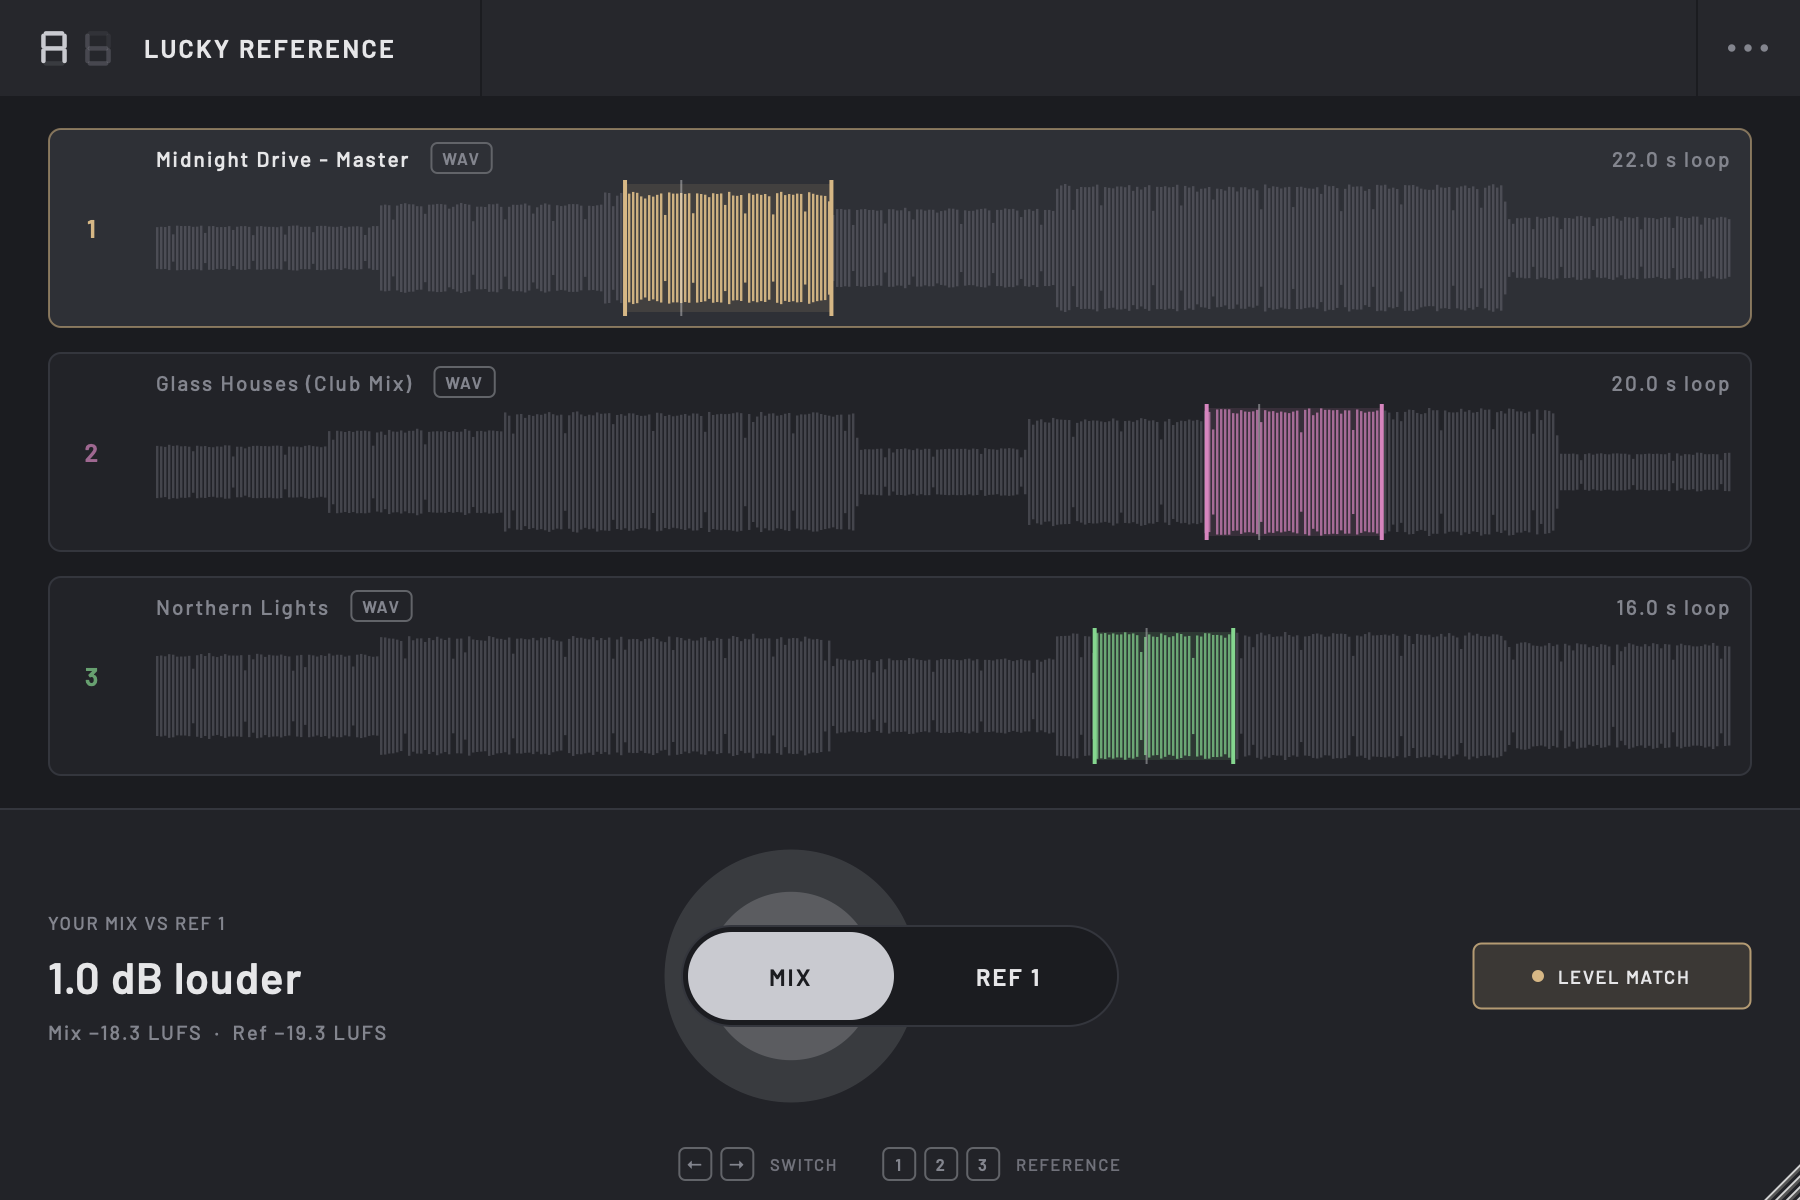
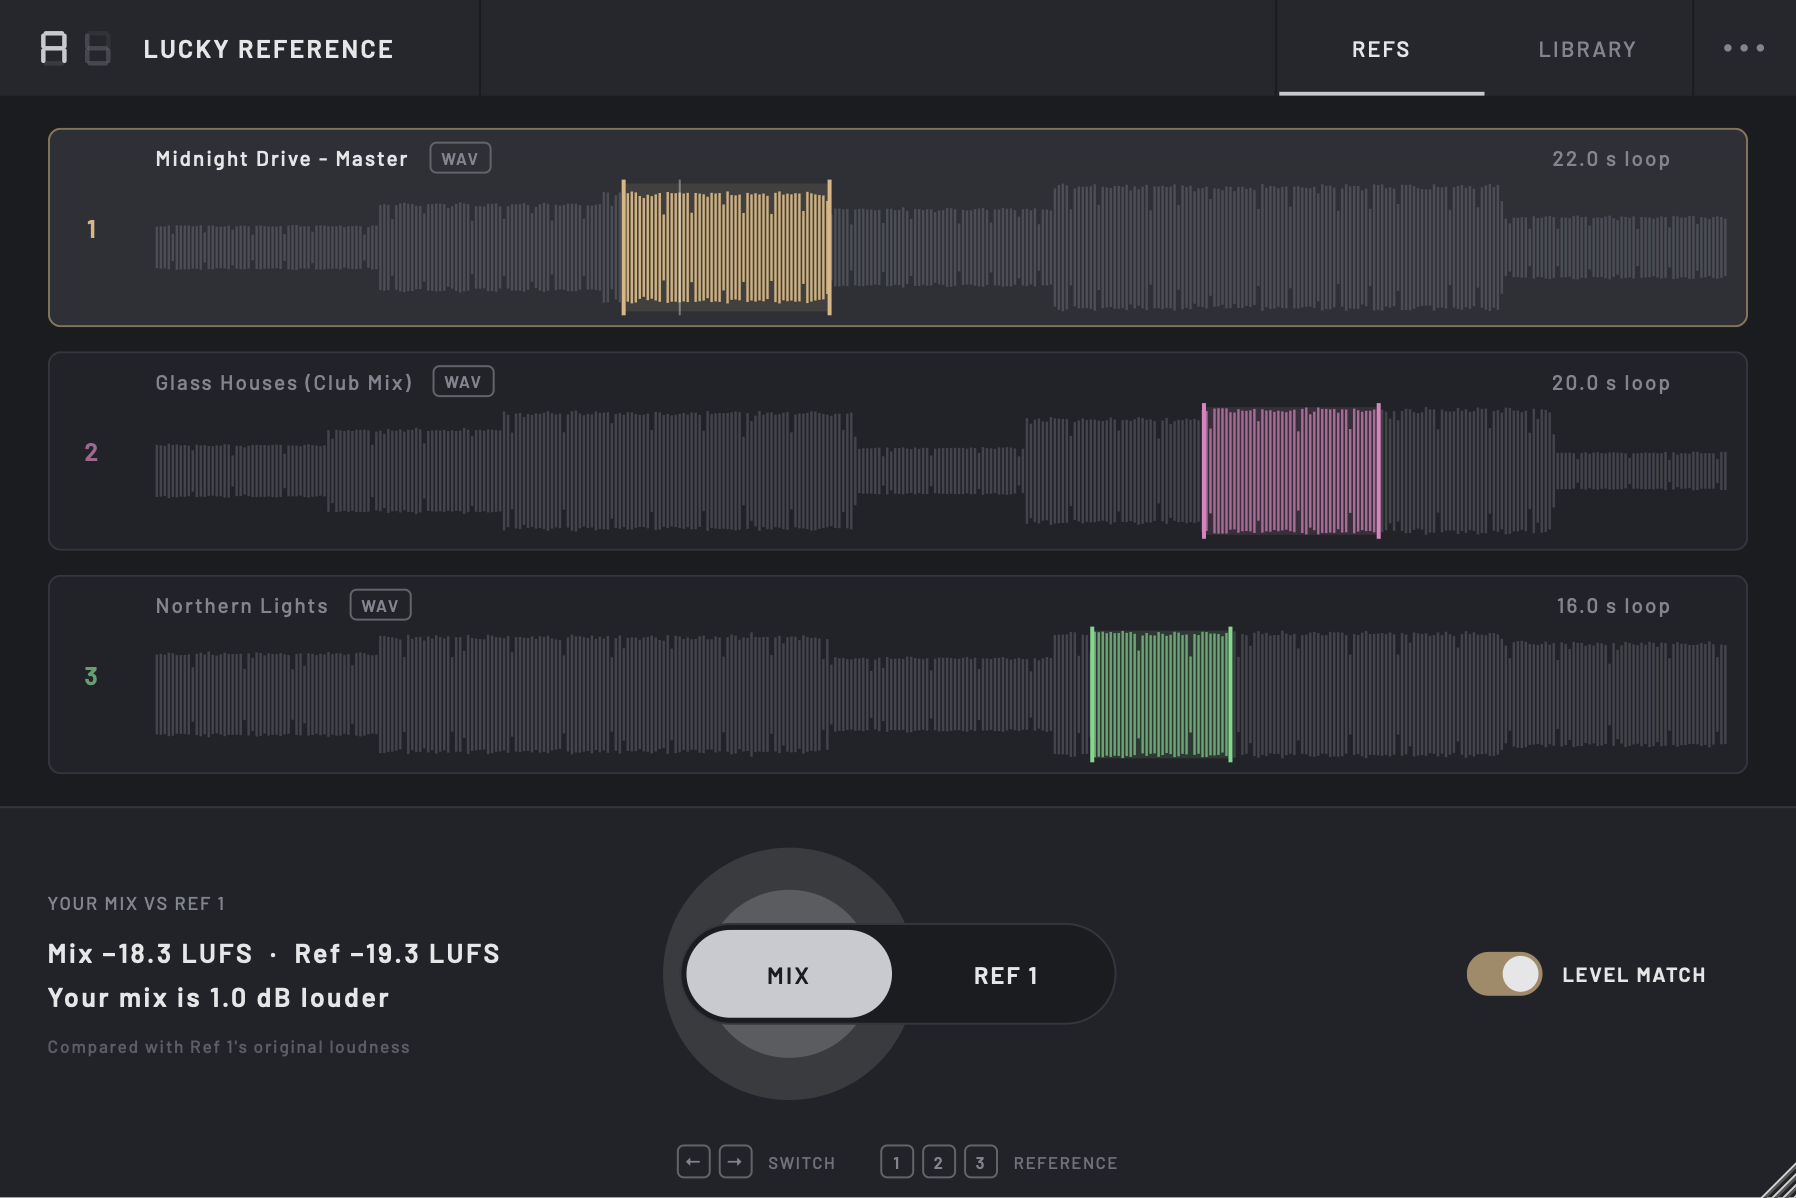
docs: prepare v0.2.0 with the reference library
Add a library section and new screenshots to the site, cover the
library, closest matching and the new readout in the README, and
write the v0.2.0 changelog.

diff --git a/docs/index.html b/docs/index.html
@@ -4,7 +4,7 @@
 <meta charset="utf-8">
 <meta name="viewport" content="width=device-width, initial-scale=1">
 <title>Lucky Reference</title>
-<meta name="description" content="Lucky Reference: a free reference plugin for macOS. Flip between your mix and up to three reference tracks with one switch, at matched loudness, without leaving your master track.">
+<meta name="description" content="Lucky Reference: a free reference plugin for macOS. Flip between your mix and up to three reference tracks with one switch, at matched loudness, and find the references in your library that sound closest to your mix.">
 <meta property="og:title" content="Lucky Reference">
 <meta property="og:description" content="A/B your mix against the records you love, at the same loudness. Free for macOS, VST3.">
 <meta property="og:image" content="https://tomdmaguire.github.io/lucky-reference/assets/reference.png">
@@ -110,6 +110,11 @@
   .manual summary { cursor: pointer; color: var(--text); font-family: var(--display); font-weight: 600; letter-spacing: 0.03em; font-size: 17px; }
   .manual[open] summary { margin-bottom: 8px; }
   .manual p { margin: 8px 0; }
+  .points { margin: 18px 0; padding-left: 20px; color: var(--dim); }
+  .points li { margin: 0 0 10px; }
+  .points strong, .library-copy p strong { color: var(--text); font-weight: 600; }
+  .library-copy p { color: var(--dim); margin: 0; }
+  .library-copy .aside { font-size: 15px; }
   .split { display: grid; grid-template-columns: minmax(0, 1fr) minmax(0, 1.2fr); gap: 40px; align-items: center; }
   .notes { display: grid; grid-template-columns: repeat(2, minmax(0, 1fr)); gap: 24px 40px; color: var(--dim); }
   .notes h3 { font-family: var(--display); font-weight: 600; font-size: 19px; letter-spacing: 0.03em; color: var(--text); margin: 0 0 4px; }
@@ -137,6 +142,7 @@
     <a class="brand" href="#top"><img src="assets/logo.svg" alt=""><span>LUCKY REFERENCE</span></a>
     <nav aria-label="Sections">
       <a class="optional" href="#features">Features</a>
+      <a class="optional" href="#library">Library</a>
       <a class="optional" href="#how">How to use</a>
       <a href="#install">Install</a>
       <a href="https://github.com/tomdmaguire/lucky-reference">GitHub</a>
@@ -175,8 +181,8 @@
     </div>
 
     <figure class="shot">
-      <img src="assets/reference.png" width="1800" height="1200" alt="Lucky Reference with three reference tracks loaded, each with a looped section highlighted in its colour. Reference 2 is playing, with rings rippling out from the switch, and the readout says your mix is 4.0 dB quieter: mix −18.3 LUFS, reference −14.3 LUFS.">
-      <figcaption>Three references, each looping the section you want to compare. Reference 2 is playing at your mix's loudness, and the readout shows your mix is 4 dB quieter.</figcaption>
+      <img src="assets/reference.png" width="1800" height="1200" alt="Lucky Reference with three reference tracks loaded, each with a looped section highlighted in its colour. Reference 2 is playing with level match on, rings rippling out from the switch, and the readout shows mix −18.3 LUFS, reference −14.3 LUFS: your mix is 4.0 dB quieter.">
+      <figcaption>Three references, each looping the section you want to compare. Reference 2 is playing at your mix's loudness, and the readout shows your mix is really 4 dB quieter.</figcaption>
     </figure>
   </div>
 
@@ -187,7 +193,7 @@
       <div class="features">
         <div class="feature" style="--dot: var(--gold)">
           <h3>A fair comparison</h3>
-          <p>Louder always sounds better, so the reference is turned to your mix's loudness (BS.1770, over the last 10 seconds you've played) before you hear it. Turn Level Match off to hear the real gap.</p>
+          <p>Louder always sounds better, so the reference is turned to your mix's loudness (BS.1770, over the last 10 seconds you've played) before you hear it. Flip the Level Match switch off to hear the real gap.</p>
         </div>
         <div class="feature" style="--dot: var(--pink)">
           <h3>One switch</h3>
@@ -199,12 +205,34 @@
         </div>
         <div class="feature" style="--dot: var(--blue)">
           <h3>A number for mastering</h3>
-          <p>The readout says how your mix compares in plain words, such as &ldquo;3.4&nbsp;dB quieter&rdquo;, with both LUFS values underneath. It's a quick check on how loud your master is next to the records it'll sit beside.</p>
+          <p>The readout shows both LUFS values and says how your mix compares in plain words, such as &ldquo;Your mix is 3.4&nbsp;dB quieter&rdquo;. It always compares real levels, so it's a quick check on how loud your master is next to the records it'll sit beside.</p>
         </div>
         <div class="feature" style="--dot: var(--aqua)">
           <h3>Follows your session</h3>
           <p>References play when your DAW plays and restart from the top of their loop when you press play. Exports and bounces always contain your mix, whatever the switch says.</p>
         </div>
+      </div>
+    </div>
+  </section>
+
+  <section id="library">
+    <div class="wrap">
+      <span class="label">Reference library</span>
+      <h2>The closest references, one click away.</h2>
+      <div class="split">
+        <div class="library-copy">
+          <p>Keep your references in <strong>Music &rsaquo; Lucky Reference &rsaquo; References</strong>, or add the folders you already use from the <strong>&ctdot;</strong> menu. They're indexed where they are, in every session.</p>
+          <ul class="points">
+            <li><strong>Search</strong> by name or folder, then load a track into reference 1, 2 or 3 with the buttons on its row.</li>
+            <li><strong>Closest</strong> ranks your library by how close each track's tonal balance and punch are to your mix, after 20 seconds of playing. As more of your mix plays, it tells you if your top matches change.</li>
+            <li><strong>Add to library</strong> copies a reference you dropped in from elsewhere, so it's there next time.</li>
+          </ul>
+          <p class="aside">Library tracks are analysed once in the background and remembered. Nothing is copied or replaced without asking.</p>
+        </div>
+        <figure class="shot">
+          <img src="assets/library.png" width="1800" height="1200" loading="lazy" alt="The Lucky Reference library sorted by Closest, with each track's match bar, format, length and 1 2 3 buttons for loading it into a reference slot.">
+          <figcaption>Sorted by Closest, with a button for each reference slot on every row.</figcaption>
+        </figure>
       </div>
     </div>
   </section>
@@ -224,7 +252,7 @@
           <li>
             <div>
               <h3>Drop in your references</h3>
-              <p>Drag up to three tracks onto the slots, or click a slot to browse. Each one picks its loudest section to loop.</p>
+              <p>Drag up to three tracks onto the slots, click a slot to browse, or pick them from your library. Each one picks its loudest section to loop.</p>
             </div>
           </li>
           <li>
@@ -305,7 +333,7 @@
         </div>
         <div>
           <h3>Your files stay put</h3>
-          <p>References are linked, not copied into your project, so keep them where they are. If one moves, its slot says so and you can click it to find the file again.</p>
+          <p>References are linked, not copied into your project. Keep them in your library and they always have a home; if one moves, its slot says so and you can click it to find the file again.</p>
         </div>
         <div>
           <h3>Open source</h3>

diff --git a/tools/Snapshot.cpp b/tools/Snapshot.cpp
@@ -183,7 +183,7 @@ void playFor (LuckyReferenceProcessor& processor, PlayingHead& head, const juce:
 
 /** Renders the editor to a PNG. Modes: "empty", "loaded", "reference", "measuring", "nomatch", "radar" (flips sources to
     leave ripples), "playing" (flips to reference 2 while music plays; settleSeconds sets how long after the flip to capture),
-    "library" (the library panel over the slots), "library-empty" (the panel with nothing in the library), "closest" (the panel ranked against a played mix), "closest-waiting" (the panel before enough of the mix has played), "library-replace" (asking before replacing a loaded reference) and "outside" (references from outside the library, offering ADD TO LIBRARY). */
+    "library" (the library panel over the slots), "library-empty" (the panel with nothing in the library), "closest" (the panel ranked against a played mix), "closest-waiting" (the panel before enough of the mix has played), "closest-update" (offering UPDATE after the mix changed), "library-replace" (asking before replacing a loaded reference) and "outside" (references from outside the library, offering ADD TO LIBRARY). */
 int snapshot (const juce::File& output, const juce::String& mode, double settleSeconds)
 {
     std::unique_ptr<LuckyReferenceProcessor> processor (dynamic_cast<LuckyReferenceProcessor*> (createPluginFilter()));
@@ -243,7 +243,7 @@ int snapshot (const juce::File& output, const juce::String& mode, double settleS
         }
     }
 
-    if (mode == "closest")
+    if (mode == "closest" || mode == "closest-update")
     {
         const auto mix = fakeSong ({ -3, -2, -4 }, 5.0, 4);
         for (int pass = 0; pass < 2; ++pass)
@@ -301,7 +301,7 @@ int snapshot (const juce::File& output, const juce::String& mode, double settleS
                 panel->chooseFile (1, processor->getLibrary().getRoot().getChildFile ("Concrete Garden.flac"));
             pumpMessages (0.2);
         }
-        if (mode == "closest")
+        if (mode == "closest-update")
         {
             playFor (*processor, head, shapedSong (30, 900.0, 0.0, false), 90.0);
             processor->updateMixProfile();
@@ -331,7 +331,7 @@ int main (int argc, char** argv)
 {
     if (argc < 3)
     {
-        std::cerr << "usage: Snapshot <output.png> <empty|loaded|reference|measuring|nomatch|radar|playing|library|library-empty|library-replace|closest|closest-waiting|outside> [settleSeconds]\n";
+        std::cerr << "usage: Snapshot <output.png> <empty|loaded|reference|measuring|nomatch|radar|playing|library|library-empty|library-replace|closest|closest-waiting|closest-update|outside> [settleSeconds]\n";
         return 1;
     }
 

diff --git a/README.md b/README.md
@@ -1,10 +1,12 @@
 # Lucky Reference
 
-Compare your mix against reference tracks at matched loudness. Lucky Reference sits last on your master track: load up to three references, choose the section of each to compare, and flip between your mix and a reference with one switch.
+Compare your mix against reference tracks at matched loudness. Lucky Reference sits last on your master track: load up to three references, choose the section of each to compare, and flip between your mix and a reference with one switch. A reference library keeps your tracks one search away and ranks them by how close they sound to your mix.
 
 **[Website and download](https://tomdmaguire.github.io/lucky-reference/)** · a sibling of [Lucky Seven](https://github.com/tomdmaguire/lucky-seven) · product spec in [`docs/spec.md`](docs/spec.md)
 
 ![Lucky Reference with three references loaded, reference 2 playing and the readout saying the mix is 4.0 dB quieter](docs/assets/reference.png)
+
+![The library sorted by Closest, with 1 2 3 buttons on every row](docs/assets/library.png)
 
 ## Install
 
@@ -16,10 +18,13 @@ A zip for installing by hand is also on the [releases page](https://github.com/t
 
 ## Features
 
-- **Three reference slots**: drop a WAV, AIFF, FLAC, MP3 or M4A file onto a slot, or click it to browse.
+- **Three reference slots**: drop a WAV, AIFF, FLAC, MP3 or M4A file onto a slot, click it to browse, or load one from the library. Hover a slot and click × (or press Delete) to remove its reference.
 - **A loop for each reference**: a new reference loops its loudest 16 seconds. Drag across the waveform to choose another section, drag a loop edge to adjust it, double-click to play the whole track.
 - **One A/B switch** in the middle, with a short crossfade. Press ← for your mix, → for the reference and 1/2/3 to choose a slot. It's also the first plugin parameter, so in Ableton you can add it to the device panel (Configure) and MIDI- or key-map it.
-- **Loudness matching**: the reference is turned to your mix's BS.1770 loudness, measured over the last 10 seconds you've played and the reference's loop. The readout says how your mix compares ("3.4 dB quieter") with both LUFS values; turn LEVEL MATCH off to hear the real gap.
+- **Loudness matching**: the reference is turned to your mix's BS.1770 loudness, measured over the last 10 seconds you've played and the reference's loop. Flip the LEVEL MATCH switch off to hear the real gap.
+- **Loudness readout**: both LUFS values and the gap in plain words ("Your mix is 3.4 dB quieter"). It always compares real, unmatched levels.
+- **Reference library** (the LIBRARY tab): every track in `~/Music/Lucky Reference/References`, plus any folders you add from the **⋯** menu (indexed in place, never copied). Search by name or folder, and load a track into reference 1, 2 or 3 with the buttons on its row; replacing a loaded reference asks first. ADD FILES copies files in, and a reference loaded from elsewhere offers ADD TO LIBRARY.
+- **Closest to your mix**: after 20 seconds of playing, CLOSEST ranks the library by how close each track's tonal balance (third-octave bands, loudness removed) and punch are to your mix. The order stays put while you browse; if more playing changes your top three, an UPDATE button offers to re-rank. Library tracks are analysed once in the background and cached.
 - **Format badge** next to each reference's name, with the bitrate for lossy files ("MP3 · 192 kbps"), so you know when you're comparing against a lower-quality file.
 - **Keyboard**: left/right arrows switch between mix and reference, 1/2/3 pick a reference; the keys are shown under the switch.
 - **Window size** from 75% to 200%: drag the corner or pick a size from the **⋯** menu.
@@ -27,7 +32,7 @@ A zip for installing by hand is also on the [releases page](https://github.com/t
 - **Safe exports**: offline renders always contain your mix.
 - **Light**: about 0.1% of the per-block time on average at 48 kHz, with the worst block under 6% at a 64-sample buffer. A 4-minute reference loads in about 0.3 s and holds about 90 MB.
 
-References are linked by path, not copied into your project, so keep them where they are (or relocate them from the slot if you move them).
+References are linked by path, not copied into your project, so keep them where they are (the library is a good home), or relocate them from the slot if you move them.
 
 Put Lucky Reference last on your master, after any limiter or mastering chain (monitor correction such as Sonarworks can come after it).
 
@@ -43,7 +48,8 @@ ctest --test-dir build --output-on-failure
 
 ### Tools
 
-- `build/LuckyReferenceSnapshot <file.png> <empty|loaded|reference|measuring|nomatch|radar>` renders the editor with generated references.
+- `build/LuckyReferenceSnapshot <file.png> <mode>` renders the editor with generated references and a throwaway library. Modes: `empty`, `loaded`, `reference`, `measuring`, `nomatch`, `radar`, `playing`, `library`, `library-empty`, `library-replace`, `closest`, `closest-waiting`, `closest-update`, `outside`.
+- `build/LuckyReferenceProfile [--stability] <files...>` prints each file's tonal profile and how closely every pair matches; `--stability` measures how much of a mix must play for a reliable ranking.
 - `build/LuckyReferenceBench_artefacts/Release/LuckyReferenceBench` measures the engine's CPU use at 32-512 sample buffers, on the mix, on a reference and while flipping between them. Run it with nothing else busy (a DAW open skews the numbers).
 - `build/LuckyReferenceLoadBenchmark_artefacts/Release/LuckyReferenceLoadBenchmark <file | --synthetic> [host rate]` times decoding, resampling and analysis.
 
@@ -57,7 +63,7 @@ lipo -info ~/Library/Audio/Plug-Ins/VST3/"Lucky Reference.vst3"/Contents/MacOS/"
 leaks --atExit -- build/LuckyReferenceProcessorTests
 ```
 
-Then add the version's entry to `CHANGELOG.md` and push a tag such as `v0.1.0`: GitHub Actions builds, tests, ad-hoc signs and publishes `Lucky-Reference.pkg` and a zip.
+Then add the version's entry to `CHANGELOG.md` and push a tag such as `v0.2.0`: GitHub Actions builds, tests, ad-hoc signs and publishes `Lucky-Reference.pkg` and a zip.
 
 JUCE is fetched automatically by CMake. The build copies the VST3 into `~/Library/Audio/Plug-Ins/VST3`.
 

diff --git a/CHANGELOG.md b/CHANGELOG.md
@@ -1,11 +1,16 @@
 # Changelog
 
-## Unreleased
+## v0.2.0
 
-- A reference library on its own LIBRARY tab: everything in `~/Music/Lucky Reference/References` plus any folders you add from the ⋯ menu. Search by name or folder, and load a track into reference 1, 2 or 3 with the buttons on its row. ADD FILES... copies files in. The logo or the REFS tab takes you back.
-- ADD TO LIBRARY on a reference loaded from elsewhere copies it into the library and keeps it playing (shown once you've used the library).
-- CLOSEST sorts the library by how close each track's tonal balance and punch are to your mix, over the last two minutes played.
+A reference library, and a way to find the references that sound closest to your mix.
+
+- **Library tab:** everything in `~/Music/Lucky Reference/References`, plus any folders you add from the ⋯ menu (Library folders), indexed where they are. Search by name or folder, and load a track into reference 1, 2 or 3 with the buttons on its row. Replacing a loaded reference asks first. ADD FILES... copies files in. The REFS tab or the logo takes you back.
+- **Closest to your mix:** after 20 seconds of playing, CLOSEST ranks the library by how close each track's tonal balance and punch are to your mix. The order never jumps while you browse; if more playing changes your top three, UPDATE re-ranks.
+- **Add to library:** a reference loaded from elsewhere offers to copy itself into the library and keeps playing.
+- **Clearer loudness readout:** both LUFS values and "Your mix is 4.0 dB quieter", always comparing real levels, with a note while level matching is on. LEVEL MATCH is now an on/off switch.
 - Hover a reference to remove it with ×, or press Delete.
+- Only the selected reference shows a playhead.
+- The readout says "Waiting for your mix" until you press play.
 - Closing the plug-in window switches back to your mix, so a reference never keeps playing out of sight. Switching from the DAW with the window closed still works.
 
 ## v0.1.0
